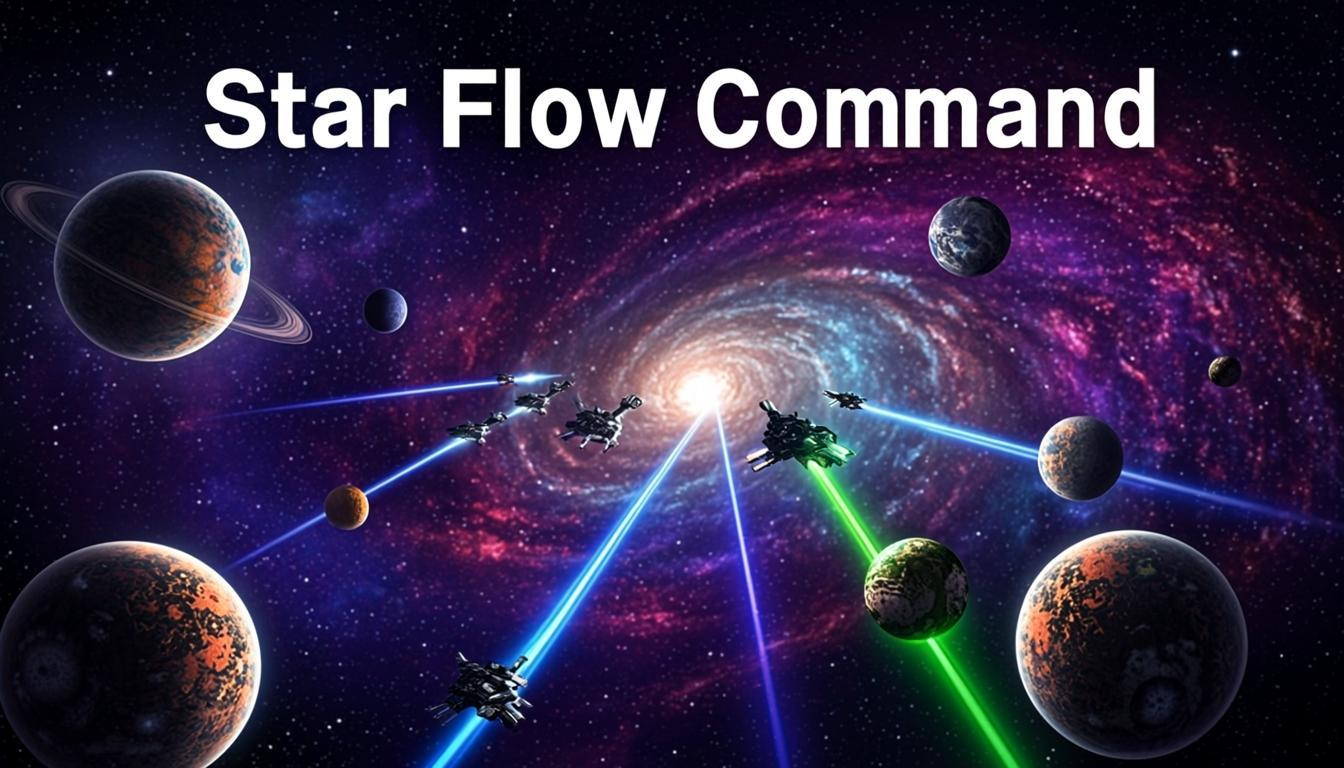
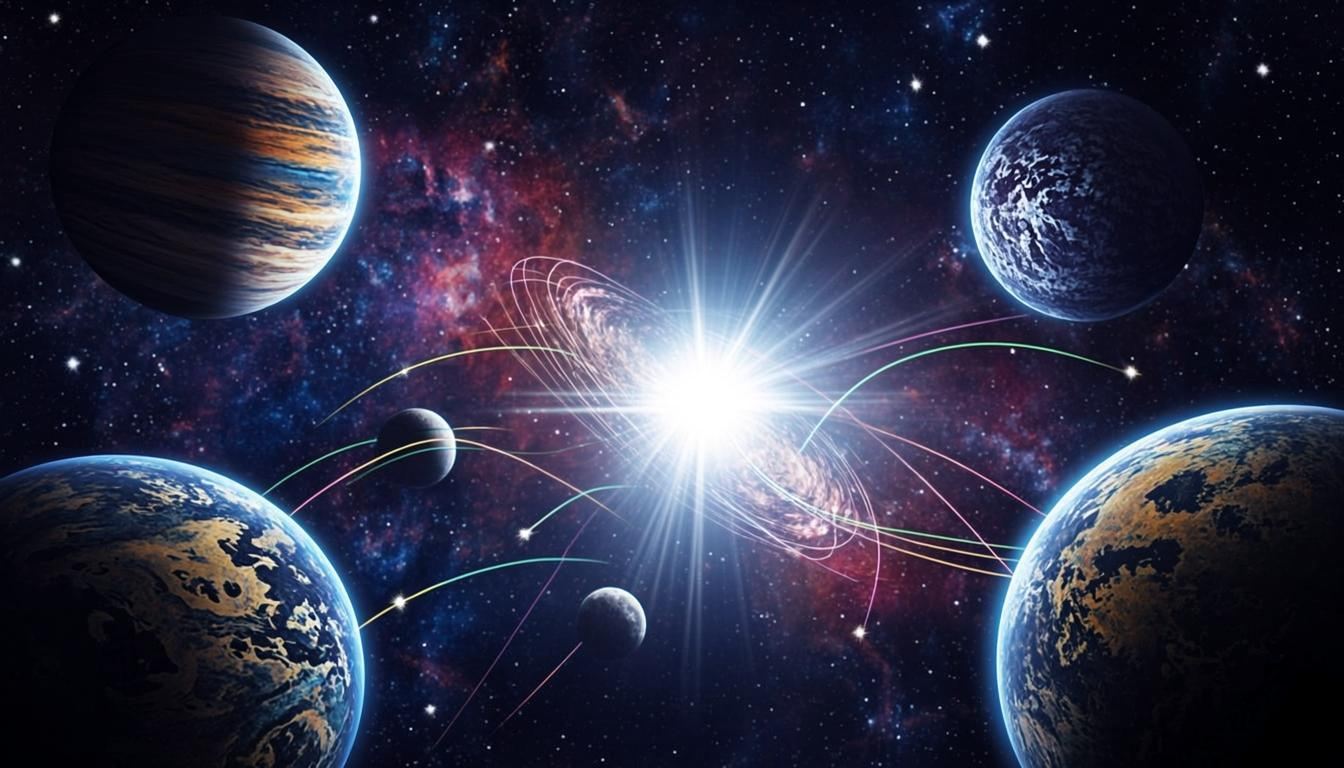
fix: regenerate poster without text, fix start button
- Regenerated promo poster without any text overlay
- Moved start button handler from inline script to main.ts module
  to ensure proper event binding after DOM ready
- Added touchend handler on start button (touch-action:manipulation)
  to fix non-responsive button on touch devices
- Game now initializes after game-container becomes visible
- Removed redundant inline script

diff --git a/starflow-3d/src/main.ts b/starflow-3d/src/main.ts
@@ -4,23 +4,41 @@
 
 import { startGame } from './game/game';
 
-let gameStarted = false;
+document.addEventListener('DOMContentLoaded', () => {
+  const startBtn = document.getElementById('start-btn');
+  const startScreen = document.getElementById('start-screen');
+  const gameContainer = document.getElementById('game-container');
 
-function initGame(): void {
-  if (gameStarted) return;
-  gameStarted = true;
+  function launchGame(): void {
+    if (!gameContainer || !startScreen) return;
 
-  const canvas = document.getElementById('game-canvas') as HTMLCanvasElement;
-  if (!canvas) {
-    console.error('Canvas #game-canvas not found!');
-    return;
+    // Remove start screen
+    startScreen.classList.add('fade-out');
+    setTimeout(() => {
+      startScreen.style.display = 'none';
+      gameContainer.classList.add('active');
+
+      // Now init Three.js on the visible canvas
+      const canvas = document.getElementById('game-canvas') as HTMLCanvasElement;
+      if (!canvas) {
+        console.error('Canvas #game-canvas not found!');
+        return;
+      }
+      startGame(canvas);
+      console.log('Star Flow Command — 3D initialized');
+
+      // Hide loading overlay
+      const loading = document.getElementById('loading');
+      if (loading) loading.classList.add('hidden');
+    }, 800);
   }
 
-  startGame(canvas);
-  console.log('Star Flow Command — 3D initialized');
-}
-
-document.addEventListener('DOMContentLoaded', () => {
-  // Listen for start screen button click
-  window.addEventListener('game-start', initGame);
+  if (startBtn) {
+    startBtn.addEventListener('click', launchGame);
+    // Touch support — prevent ghost clicks, ensure response
+    startBtn.addEventListener('touchend', (e) => {
+      e.preventDefault();
+      launchGame();
+    });
+  }
 });

diff --git a/starflow-3d/index.html b/starflow-3d/index.html
@@ -85,6 +85,7 @@
       cursor: pointer;
       box-shadow: 0 0 20px rgba(68, 136, 255, 0.4), 0 4px 15px rgba(0, 0, 0, 0.5);
       transition: all 0.3s ease;
+      touch-action: manipulation;
       -webkit-tap-highlight-color: transparent;
     }
     #start-btn:hover {
@@ -163,28 +164,5 @@
   </div>
 
   <script type="module" src="/src/main.ts"></script>
-  <script>
-    // Start screen logic
-    document.getElementById('start-btn')!.addEventListener('click', function () {
-      const startScreen = document.getElementById('start-screen')!;
-      const gameContainer = document.getElementById('game-container')!;
-
-      startScreen.classList.add('fade-out');
-
-      setTimeout(function () {
-        startScreen.style.display = 'none';
-        gameContainer.classList.add('active');
-        // Dispatch custom event for main.ts to pick up
-        window.dispatchEvent(new CustomEvent('game-start'));
-      }, 800);
-    });
-
-    // Hide loading screen once assets are ready
-    window.addEventListener('load', function () {
-      setTimeout(function () {
-        document.getElementById('loading')?.classList.add('hidden');
-      }, 500);
-    });
-  </script>
 </body>
 </html>
